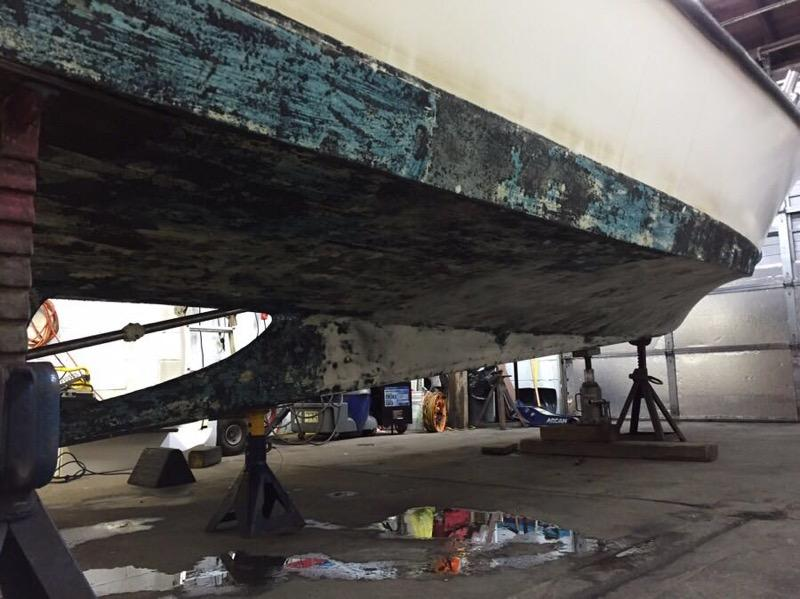
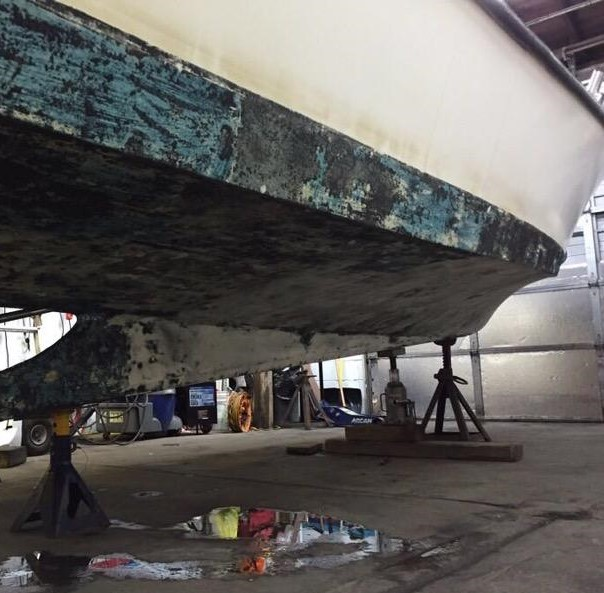
added photos to gallery

diff --git a/app.js b/app.js
@@ -1,9 +1,9 @@
 var Express = require("express");
 var app =Express();
-
-require('dotenv').config();
-
 var port = process.env.PORT ||3000;
+require('dotenv').config();
+const mongoose = require("mongoose");
+
 app.set("view engine", "ejs");
 
 var bodyParser = require("body-parser");
@@ -16,26 +16,35 @@ app.use(Express.static("public"));
 
 var images=[
 
-	{name: "Logo", image:"/images/pic.png"},
-	{name: "Logo", image:"/images/beforeboat.jpg"},
-	{name: "Logo", image:"/images/completedboat.jpg"},
-	{name: "Logo", image:"/images/inprogressboat.jpg"},
-	{name: "Logo", image:"/images/pic.png"},
-	{name: "Logo", image:"/images/beforeboat.jpg"},
-	{name: "Logo", image:"/images/completedboat.jpg"},
-	{name: "Logo", image:"/images/inprogressboat.jpg"},
-	{name: "Logo", image:"/images/completedboat.jpg"},
-	{name: "Logo", image:"/images/inprogressboat.jpg"},
-	{name: "Logo", image:"/images/pic.png"},
-	{name: "Logo", image:"/images/beforeboat.jpg"},
-	{name: "Logo", image:"/images/completedboat.jpg"},
-	{name: "Logo", image:"/images/inprogressboat.jpg"},
-	{name: "Logo", image:"/images/completedboat.jpg"},
-	{name: "Logo", image:"/images/inprogressboat.jpg"},
-	{name: "Logo", image:"/images/pic.png"},
-	{name: "Logo", image:"/images/beforeboat.jpg"},
-	{name: "Logo", image:"/images/completedboat.jpg"},
-	{name: "Logo", image:"/images/inprogressboat.jpg"}
+	{name: "blueboat", image:"/images/beforeboat.jpg"},
+	{name: "blueboathalf", image:"/images/blueboat_inprogress.JPEG"},
+	{name: "whiteboatdone", image:"/images/completedboat.jpg"},
+	{name: "lightgreenhalf", image:"/images/inprogressboat.jpg"},
+	{name: "beforeblackheadlight", image:"/images/beforeHeadlight.jpg"},
+	{name: "afterheadlightblackcar", image:"/images/afterheadlight.jpg"},
+	{name: "darkgreendone", image:"/images/darkgreen_finished.jpeg"},
+	{name: "redcarbefore", image:"/images/red_car_before.JPG"},
+	{name: "redfrontafter", image:"/images/red_front_after.JPG"},
+	{name: "redbackafter", image:"/images/redcar_back_after.JPG"},
+	{name: "under1", image:"/images/undersideboat.jpg"},
+	{name: "under2", image:"/images/undersideboat2.JPG"},
+	{name: "under3", image:"/images/undersideboat3.JPG"},
+	{name: "under4", image:"/images/undersideboat4.JPG"},
+	{name: "volkb4", image:"/images/volk_before_headlight.JPG"},
+	{name: "volkafter", image:"/images/volk_after_headlight.JPG"},
+	{name: "whitebefore1", image:"/images/whiteboat_leftside_before.JPG"},
+	{name: "whitebefore2", image:"/images/whiteboat_leftside_before2.JPG"},
+	{name: "whiteafter1", image:"/images/whiteboat_leftside_after.JPG"},
+	{name: "whiteafter2", image:"/images/whiteboat_leftside_after2.JPG"},
+	{name: "boatseatclean", image:"/images/boatseat_after.JPG"}
+	
+]
+
+var services=[
+
+	
+
+
 ]
 
 app.get("/gallery", function(req, res){

diff --git a/public/css/contactv2.css b/public/css/contactv2.css
@@ -2,6 +2,7 @@
 
 	margin-left: 1em;
 	height:100px;
+	
 }
 
 .nav{
@@ -18,12 +19,15 @@
 
 	padding-bottom: 1px;
 	padding-top: 1px;
+	
+
 }
 
 
 .navbar-nav{
 
 	margin-right: 25px;
+
 }
 
 body{
@@ -66,8 +70,8 @@ h2{
 
 	margin-top: 60px;
 	margin-bottom: 40px;
-	width: 183px;
-	border-bottom: 4px solid #21a4f3;
+	
+	border-bottom: 2px solid #21a4f3;
 	text-align: center;
   
 }
